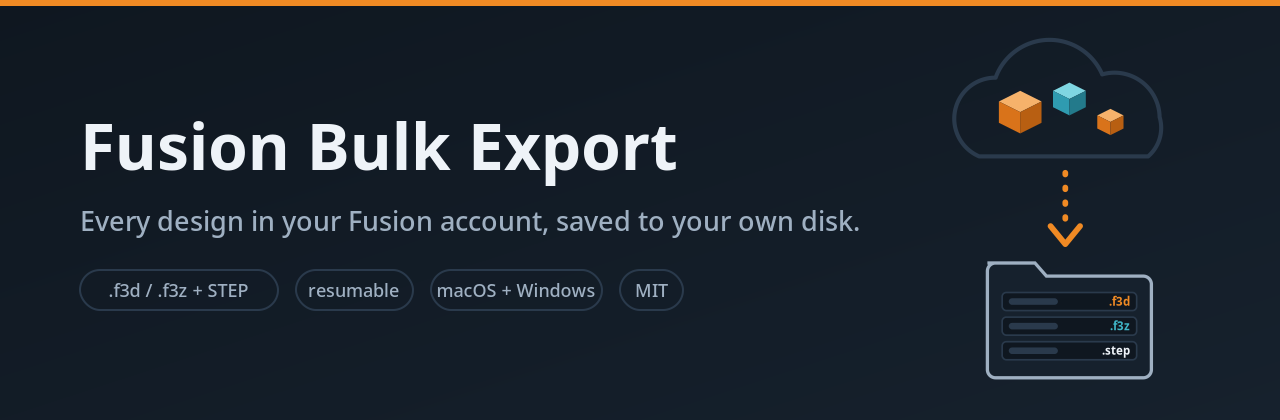
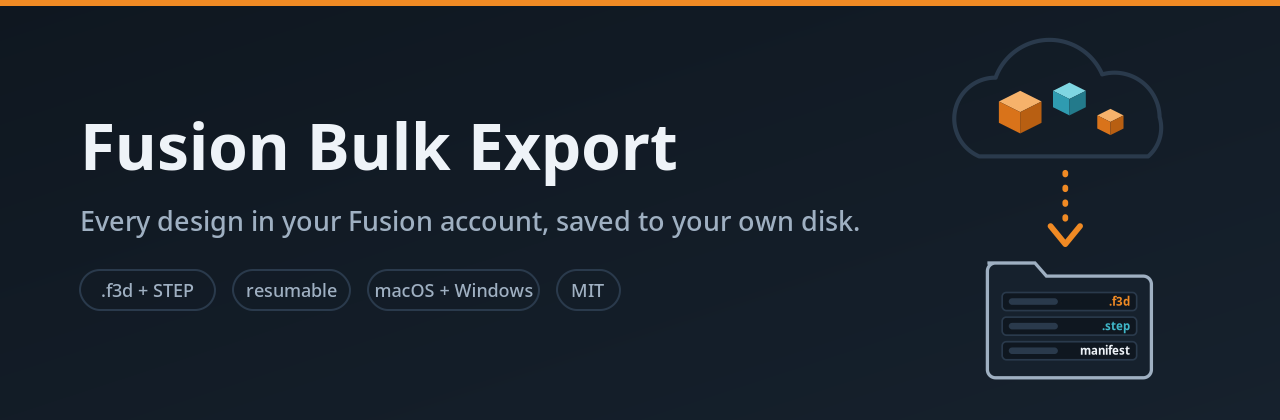
Write .f3d archives and record links between designs
Fusion's API cannot export a .f3z bundle: asked for "x.f3z" it reports
success and writes "x.f3z.f3d" with only the design itself, and there is
no download or text command for Fusion designs. Always write .f3d,
list each design's referenced designs (cloud id and name) in the
manifest, and fail an export that reports success but leaves no file.
Docs and cards now say .f3d + STEP.

Changed region(s): [[0.0625, 0.619, 0.5312, 0.7429], [0.8438, 0.7738, 0.875, 0.8667]]

diff --git a/FusionBulkExport/fusion_bulk_export/selftest.py b/FusionBulkExport/fusion_bulk_export/selftest.py
@@ -35,15 +35,6 @@ class ObservedAdapter(FusionAdapter):
         self.recorder = recorder
         self.observations = {}
 
-    def archive_extension(self, document, data_file):
-        extension = super().archive_extension(document, data_file)
-        self.observations[str(data_file.id)].update(
-            document_references=document.documentReferences.count,
-            child_references=data_file.childReferences.count,
-            expected_archive=('.f3z' if document.documentReferences.count > 0
-                              or data_file.childReferences.count > 0 else '.f3d'))
-        return extension
-
     def observe(self, design, data_file):
         # Distinct solid bodies per component, the count a STEP export should carry.
         try:
@@ -52,7 +43,9 @@ class ObservedAdapter(FusionAdapter):
         except Exception as error:
             solids = None
             self.recorder.error('observe ' + str(data_file.id), error)
-        self.observations[str(data_file.id)]['solid_bodies'] = solids
+        observation = self.observations[str(data_file.id)]
+        observation['solid_bodies'] = solids
+        observation['child_references'] = data_file.childReferences.count
 
     def export(self, data_file, stem):
         identity = str(data_file.id)
@@ -64,7 +57,8 @@ class ObservedAdapter(FusionAdapter):
         try:
             files = super().export(data_file, stem)
             attempt['files'] = files
-            observation['archive_correct'] = Path(files[0]).suffix == observation['expected_archive']
+            # Archives are always .f3d; references are recorded in the manifest instead.
+            observation['archive_correct'] = Path(files[0]).suffix == '.f3d' and Path(files[0]).is_file()
             return files
         except Exception as error:
             attempt.update(error=str(error), traceback=traceback.format_exc())
@@ -209,9 +203,12 @@ def run_selftest(app, config_path):
                     design.setdefault('attempt_details', [])
                     design['errors'] = [e for e in recorder.result['errors'] if e['stage'] == entry['key']]
                     recorder.result['designs'].append(design)
+                    recorded = len(design.get('references', []))
+                    if design['status'] == 'done' and design.get('child_references') not in (None, recorded):
+                        design['archive_correct'] = False
                     if design['status'] == 'done' and design['archive_correct'] is not True:
                         try:
-                            raise RuntimeError('Archive choice unverified or incorrect: ' + entry['name'])
+                            raise RuntimeError('Archive or recorded references unverified: ' + entry['name'])
                         except RuntimeError as error:
                             recorder.error('verification ' + entry['key'], error)
                 uploaded_ids = {u.get('id') for u in recorder.result['uploads'] if u['status'] == 'done'}

diff --git a/FusionBulkExport/fusion_bulk_export/fusion.py b/FusionBulkExport/fusion_bulk_export/fusion.py
@@ -1,4 +1,6 @@
 """Adapter using Autodesk's public Fusion API. Imported only inside Fusion."""
+import os
+
 import adsk.core
 import adsk.fusion
 from .core import NonDesign, collection
@@ -8,9 +10,14 @@ class FusionAdapter:
     def __init__(self, app):
         self.app = app
 
-    def archive_extension(self, document, data_file):
-        references = document.documentReferences.count > 0 or data_file.childReferences.count > 0
-        return '.f3z' if references else '.f3d'
+    def references(self, data_file):
+        """Designs this one references (linked components, derives), by cloud id and name.
+
+        The Fusion API can only write a design's own archive (.f3d), never a .f3z bundle with
+        its references, so the links are recorded instead; each referenced design in the
+        account is exported in its own right.
+        """
+        return [dict(id=str(child.id), name=child.name) for child in collection(data_file.childReferences)]
 
     def observe(self, design, data_file):
         """Hook called with each opened design before export."""
@@ -31,13 +38,18 @@ class FusionAdapter:
             if not fusion_document:
                 raise NonDesign('Not a Fusion document')
             self.observe(design, data_file)
-            archive = str(stem) + self.archive_extension(fusion_document, data_file)
+            # Fusion writes .f3d whatever extension is asked for (".f3z" becomes ".f3z.f3d").
+            archive = str(stem) + '.f3d'
             step = str(stem) + '.step'
             manager = design.exportManager
             if not manager.execute(manager.createFusionArchiveExportOptions(archive)):
                 raise RuntimeError('Fusion archive export returned false')
+            if not os.path.isfile(archive):
+                raise RuntimeError('Fusion reported a successful archive export but wrote no file')
             if not manager.execute(manager.createSTEPExportOptions(step)):
                 raise RuntimeError('STEP export returned false')
+            if not os.path.isfile(step):
+                raise RuntimeError('Fusion reported a successful STEP export but wrote no file')
             return [archive, step]
         finally:
             if document.close(False) is False:

diff --git a/tests/test_export.py b/tests/test_export.py
@@ -63,22 +63,26 @@ class ExportTests(unittest.TestCase):
         a, b = fake.File(), fake.File('Assembly', 'assembly', references=True)
         _, counts = self.run_export(fake.data([a, b]))
         self.assertEqual(counts, dict(done=2, failed=0, skipped=0))
-        for entry, extension in zip(self.manifest['entries'], ['.f3d', '.f3z']):
+        for entry in self.manifest['entries']:
             self.assertEqual(entry['version'], 3)
             self.assertEqual(entry['date'], 1700000000)
             self.assertIsNone(entry['error'])
-            self.assertEqual([Path(f['path']).suffix for f in entry['files']], [extension, '.step'])
+            # Fusion can only write .f3d; links are recorded instead of bundled.
+            self.assertEqual([Path(f['path']).suffix for f in entry['files']], ['.f3d', '.step'])
             for info in entry['files']:
                 self.assertEqual(len(info['sha256']), 64)
                 self.assertEqual(info['bytes'], len(b'Synthetic CAD placeholder'))
+        self.assertEqual(self.manifest['entries'][0]['references'], [])
+        self.assertEqual(self.manifest['entries'][1]['references'], [dict(id='linked-assembly', name='Linked part')])
         self.assertTrue(all(doc.closed for file in [a, b] for doc in file.documents))
 
-    def test_child_references_alone_choose_bundle(self):
+    def test_reported_success_without_file_is_failure(self):
         file = fake.File()
-        file.childReferences = fake.Collection(NS())
-        self.run_export(fake.data([file]))
+        with patch.object(fake.Manager, 'execute', return_value=True):
+            self.run_export(fake.data([file]))
         entry = self.manifest['entries'][0]
-        self.assertEqual(Path(entry['files'][0]['path']).suffix, '.f3z')
+        self.assertEqual(entry['status'], 'failed')
+        self.assertIn('wrote no file', entry['error'])
 
     def test_new_version_keeps_previous_pair(self):
         file = fake.File()

diff --git a/docs/cards.py b/docs/cards.py
@@ -40,7 +40,7 @@ def art(ox, oy, k):
     parts.append(f'<path d="M70,250 h58 l14,16 h118 a10,10 0 0 1 10,10 v104 a10,10 0 0 1 -10,10 h-180 '
                  f'a10,10 0 0 1 -10,-10 v-120 a10,10 0 0 1 10,-10 z" fill="{BG2}" stroke="{MUTED}" stroke-width="4"/>')
     # Files in the folder.
-    for i, (label, color) in enumerate([('.f3d', ACCENT), ('.f3z', ACCENT2), ('.step', INK)]):
+    for i, (label, color) in enumerate([('.f3d', ACCENT), ('.step', ACCENT2), ('manifest', INK)]):
         y = 286 + i * 30
         parts.append(f'<rect x="88" y="{y}" width="164" height="22" rx="5" fill="{BG}" stroke="{LINE}" stroke-width="2"/>')
         parts.append(f'<rect x="96" y="{y + 7}" width="60" height="8" rx="4" fill="{LINE}"/>')
@@ -70,7 +70,7 @@ def card(width, height, title_size, tagline, chip_size, art_x, art_y, art_k, tex
 <rect x="0" y="0" width="{width}" height="6" fill="{ACCENT}"/>
 <text x="{text_x}" y="{text_y}" font-family="{FONT}" font-size="{title_size}" font-weight="800" fill="{INK}">Fusion Bulk Export</text>
 {''.join(f'<text x="{text_x}" y="{text_y + title_size * 0.95 + i * title_size * 0.62:.0f}" font-family="{FONT}" font-size="{title_size * 0.42:.0f}" fill="{MUTED}">{line}</text>' for i, line in enumerate(tagline))}
-{chips(text_x, int(text_y + title_size * 0.95 + len(tagline) * title_size * 0.62), ['.f3d / .f3z + STEP', 'resumable', 'macOS + Windows', 'MIT'], chip_size)}
+{chips(text_x, int(text_y + title_size * 0.95 + len(tagline) * title_size * 0.62), ['.f3d + STEP', 'resumable', 'macOS + Windows', 'MIT'], chip_size)}
 {art(art_x, art_y, art_k)}
 </svg>
 '''

diff --git a/tests/test_selftest.py b/tests/test_selftest.py
@@ -61,7 +61,7 @@ class SelfTestTests(unittest.TestCase):
         self.assertTrue(all(future.polls == 2 for future in folder.futures))
         self.assertEqual(folder.processing_polls, 4)
         self.assertEqual([u['status'] for u in result['uploads']], ['done', 'done'])
-        self.assertEqual({d['expected_archive'] for d in result['designs']}, {'.f3d', '.f3z'})
+        self.assertEqual(sorted(d['child_references'] for d in result['designs']), [0, 1])
         for design in result['designs']:
             self.assertTrue(design['archive_correct'])
             self.assertEqual(design['solid_bodies'], 1)
@@ -113,12 +113,12 @@ class SelfTestTests(unittest.TestCase):
         self.assertFalse(self.config.exists())
         self.assertTrue((self.root / 'selftest.json.last').is_file())
 
-    def test_wrong_archive_selection_fails_independent_reference_check(self):
-        with patch('fusion_bulk_export.fusion.FusionAdapter.archive_extension', return_value='.f3d'):
+    def test_unrecorded_references_fail_the_check(self):
+        with patch('fusion_bulk_export.fusion.FusionAdapter.references', return_value=[]):
             result = self.run_test()
         self.assertFalse(result['passed'])
         assembly = next(d for d in result['designs'] if d['name'] == 'Assembly')
-        self.assertEqual(assembly['expected_archive'], '.f3z')
+        self.assertEqual(assembly['child_references'], 1)
         self.assertFalse(assembly['archive_correct'])
 
     def test_destination_errors_include_tracebacks_for_both_attempts(self):

diff --git a/tests/fake_adsk/__init__.py b/tests/fake_adsk/__init__.py
@@ -20,7 +20,7 @@ class File:
     def __init__(self, name='Part', identity='file-1', version=3, extension='f3d', references=False, design=True):
         self.name, self.id, self.versionNumber = name, identity, version
         self.fileExtension, self.dateModified = extension, 1700000000
-        self.childReferences = Collection(*([NS()] if references else []))
+        self.childReferences = Collection(*([NS(id='linked-' + identity, name='Linked part')] if references else []))
         self.references, self.design = references, design
         self.failures = 0
         self.calls = 0
@@ -42,7 +42,8 @@ class Manager:
         self.file = file
 
     def createFusionArchiveExportOptions(self, path):
-        return path
+        # Like Fusion: the archive is always .f3d, whatever extension is asked for.
+        return path if path.endswith('.f3d') else path + '.f3d'
 
     def createSTEPExportOptions(self, path):
         return path

diff --git a/FusionBulkExport/fusion_bulk_export/core.py b/FusionBulkExport/fusion_bulk_export/core.py
@@ -213,6 +213,8 @@ class Exporter:
                     for attempt in range(2):
                         entry['attempts'] = attempt + 1
                         try:
+                            if hasattr(self.adapter, 'references'):
+                                entry['references'] = self.adapter.references(file)
                             stem = self.destination(hub, project, folders, file, key)
                             paths = self.adapter.export(file, stem)
                             entry['files'] = [file_info(Path(path), self.root) for path in paths]

diff --git a/README.md b/README.md
@@ -4,7 +4,7 @@
 
 Get all of your Fusion designs out, in one go.
 
-- Exports every design in every hub, project and folder you can access: `.f3z` when it references other designs (so linked parts come with it), otherwise `.f3d`, plus a matching `.step`.
+- Exports every design in every hub, project and folder you can access as a Fusion archive (`.f3d`) plus a matching `.step`. Linked designs are exported too, and each design's links are listed in the manifest.
 - Keeps your project and folder layout on disk, writes a `manifest.json`, and can resume: run it again on the same folder and it skips what's done.
 - Everything stays on your computer.
 
@@ -34,10 +34,18 @@ Exported documents are closed without saving. No follow-up command is launched.
 ## Outputs
 
 Each design produces `<output>/<hub>/<project>/<folders>/<name> v<version>.f3d`
-and a matching `.step`. Designs with document or child references use `.f3z`
-instead of `.f3d`. Only the current version exposed by each cloud file is exported;
+and a matching `.step`. Only the current version exposed by each cloud file is exported;
 previous versions are not enumerated. Drawings, other file types, and files without
 a Design product are logged as skipped.
+
+**Linked designs.** Fusion's API can only write a design's own archive, not a `.f3z`
+bundle with the designs it references (the File → Export `.f3z` option has no API
+equivalent; Fusion silently writes `.f3d` when asked for `.f3z`). So for an assembly
+with linked components, or a design with a derive, its `.f3d` holds the design itself,
+and its manifest entry lists the referenced designs under `references` (cloud id and
+name). Every referenced design you can access is exported as well, so nothing is lost;
+re-linking after import is manual. If you need one self-contained `.f3z` for a particular
+assembly, use File → Export in Fusion for that one.
 
 Stable identity suffixes distinguish names that collide after sanitizing, truncating,
 or ignoring case. Reserved characters, reserved names, Unicode, and trailing spaces
@@ -94,8 +102,9 @@ Using an AI coding agent to do this for you? Point it at [AGENTS.md](AGENTS.md).
 python3 scripts/verify-export.py /path/to/output
 ```
 
-checks every `done` entry: the archive is a readable zip (an `.f3z` holds its member
-designs and `Manifest.json`), and the STEP has a valid header and ending and is not
+checks every `done` entry: the archive is a readable zip with Fusion's design members
+(members compressed with Zstandard are counted as not CRC-checked on Python before
+3.14), and the STEP has a valid header and ending and is not
 trivially small. After a self-test it also compares the number of solids in each STEP
 with the solid-body count Fusion reported. It prints counts only; add `--names` to
 show design names.
@@ -112,11 +121,6 @@ The manifest is replaced atomically after each item and failed attempt. An unrea
 manifest stops the run without overwriting it. Use only one export at a time per
 output folder. Back up the directory as you would other valuable files.
 
-Fusion version tested: **unknown until a volunteer run**. Synthetic tests do not
-establish Fusion compatibility. A volunteer should verify referenced archive export
-through `createFusionArchiveExportOptions` with `.f3z`, the reference properties
-`document.documentReferences` and `dataFile.childReferences`, hidden document opening,
-Design product lookup, STEP export, panel placement, and the progress/copy dialog.
 STEP can omit design history and manufacturing information. Unavailable references,
 permissions, or translator limitations are recorded as failures.
 
@@ -129,7 +133,7 @@ Not affiliated with or endorsed by Autodesk. Fusion is a trademark of Autodesk, 
 Use a throwaway account in a logged-in macOS desktop session. Install Fusion,
 complete its first-launch setup and sign in once, then quit Fusion. Install Python 3
 (`python3` on PATH). Put real `.f3d` and `.f3z` archives in a local seed directory;
-include a linked assembly to exercise `.f3z` selection. Seed subdirectories are
+include a linked assembly so reference recording is exercised. Seed subdirectories are
 searched recursively. No sample CAD data is bundled.
 
 From this checkout, run:

diff --git a/AGENTS.md b/AGENTS.md
@@ -1,8 +1,9 @@
 # Guidance for AI coding agents
 
 You are helping a person back up **their own** Fusion account to **their own computer**
-(macOS or Windows). This tool exports every design they can access as `.f3z` (designs
-with references) or `.f3d`, plus a `.step`, keeping the hub/project/folder layout. It
+(macOS or Windows). This tool exports every design they can access as `.f3d` plus a
+`.step`, keeping the hub/project/folder layout. Links between designs are listed in the
+manifest (`references`); Fusion's API cannot write `.f3z` bundles. It
 only reads from the account. Work on the person's machine, in a terminal, with them nearby.
 
 ## Rules
@@ -73,6 +74,6 @@ only reads from the account. Work on the person's machine, in a terminal, with t
 - **"could not read" lines in `export.log`**: a project or folder the account cannot
   open (permissions, deleted, offline). They are skipped; report how many, not which.
 - **STEP solid count differs from Fusion's body count** (`verify-export.py`): STEP
-  dropped or merged bodies (e.g. surface bodies, or translator limits). The `.f3d`/`.f3z`
+  dropped or merged bodies (e.g. surface bodies, or translator limits). The `.f3d`
   archive is still the complete copy; note the count to the person.
 - **Drawings and non-design files are "skipped"**: expected; only Fusion designs export.

diff --git a/CHANGELOG.md b/CHANGELOG.md
@@ -2,6 +2,9 @@
 
 ## Unreleased
 
+- Archives are always `.f3d`: Fusion's API cannot write `.f3z` (asked for one, it silently writes `.f3d`). Each design's referenced designs are listed in the manifest under `references`, and an export that reports success without writing its file is now a failure.
+- Fixed: the add-in failed to load inside Fusion (its own folder is not on Python's path).
+- `autorun.py diagnostics` records the export-related API of the running Fusion build.
 - Unattended export on macOS and Windows (`scripts/autorun.py`): inventory, per-project trial, resumable full run, status, stop; the add-in keeps watching for new jobs in the same Fusion session.
 - AGENTS.md: step-by-step guidance for an AI coding agent running the backup for you.
 - Projects or folders that cannot be read are logged and skipped instead of ending the run.
